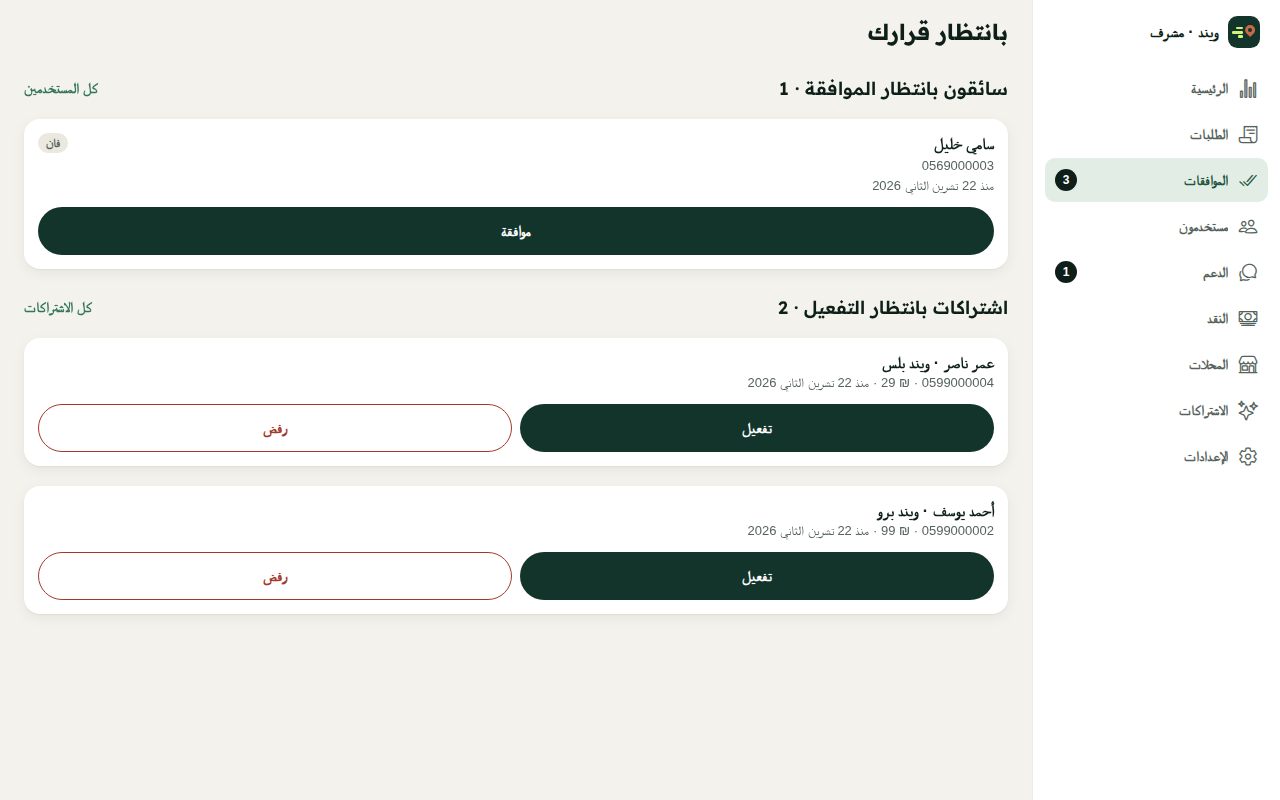
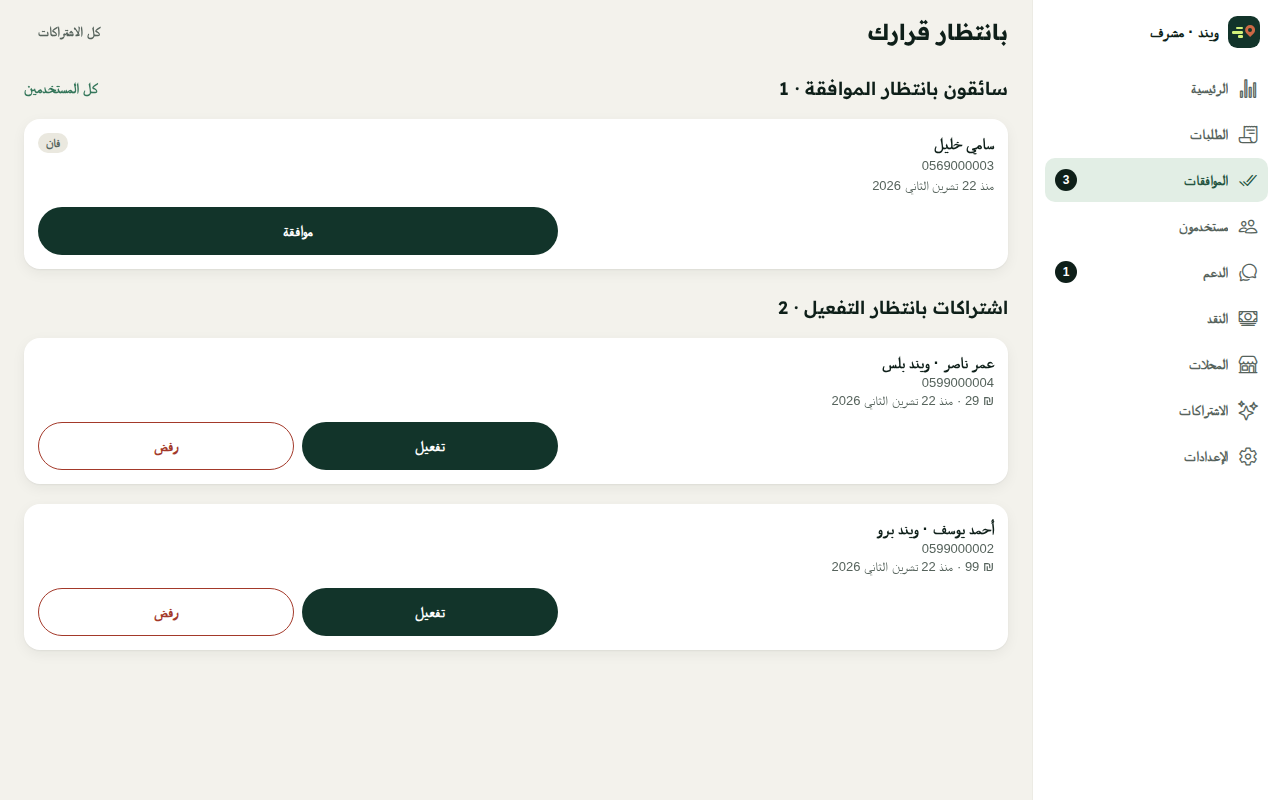
fix(admin): Approvals shows a shop-list failure even when nothing else waits; regenerate its screenshots
Haiku confirmation of PR #108: the shop error moves to the top error line, "Nothing is waiting" waits for the shop
list to answer, and a shop service without its tables (service_unavailable) reads as no applications. Approvals
screenshots regenerated for the header link, plan layout and desktop width.

diff --git a/src/app/admin/approvals.tsx b/src/app/admin/approvals.tsx
@@ -4,7 +4,7 @@
 import { useContext, useRef, useState } from 'react';
 import { router } from 'expo-router';
 import { ScrollView, View } from 'react-native';
-import { api, useApi } from '../../api';
+import { api, ApiError, useApi } from '../../api';
 import { city, isCity, type Merchant, type Subscription, type User } from '../../model';
 import { useFormat } from '../../parts';
 import { useSession } from '../../session';
@@ -31,6 +31,11 @@ export default function Approvals() {
   const waitingPlans = (plans.data ?? []).filter(s => s.status === 'pending').sort((a, b) => a.createdAt - b.createdAt);
   const waitingShops = (shops.data?.merchants ?? []).filter(m => m.status === 'pending');
   const ready = !!drivers.data && !!plans.data;
+  // Shop tables not created yet (service_unavailable) means no shop applications, not an error.
+  const shopMissing = shops.error instanceof ApiError && shops.error.message === 'service_unavailable';
+  const shopError = shop && !shops.data && !shopMissing ? shops.error : undefined;
+  // "Nothing is waiting" only once the shop list has answered too (or failed, which then shows its error).
+  const shopSettled = !shop || !!shops.data || !!shops.error;
   const loadError = drivers.error ?? plans.error;
   // The lists are capped at 200 rows: say so when the count is larger, instead of hiding the rest.
   const moreDrivers = Math.max(0, (stats.data?.pendingDrivers ?? 0) - waitingDrivers.length);
@@ -56,8 +61,8 @@ export default function Approvals() {
   return <Screen onRefresh={reload} scrollRef={list}>
     {/* Plans has no phone tab: its link stays here whatever is pending */}
     <Header title={c.approvalsTitle} right={<Button title={c.approvalsAllPlans} variant="ghost" size="sm" onPress={() => router.navigate('/admin/subscriptions')} />} />
-    <ErrorText>{failure || (loadError ? err(loadError) : '')}</ErrorText>
-    {!ready ? <Loading failed={!!loadError} onRetry={reload} /> : total === 0 ? <Empty icon="checkmark-done-outline" title={c.approvalsNone} /> : <View style={{ gap: 8 }}>
+    <ErrorText>{failure || (loadError ? err(loadError) : shopError ? err(shopError) : '')}</ErrorText>
+    {!ready || (total === 0 && !shopSettled) ? <Loading failed={!!loadError} onRetry={reload} /> : total === 0 && !shopError ? <Empty icon="checkmark-done-outline" title={c.approvalsNone} /> : <View style={{ gap: 8 }}>
       {waitingDrivers.length > 0 && <>
         <Section title={`${c.pendingDrivers} · ${waitingDrivers.length}`} action={c.approvalsAllUsers} onAction={() => router.navigate('/admin/users')} />
         {moreDrivers > 0 && <Txt variant="caption">{fill(c.approvalsMore, { n: moreDrivers })}</Txt>}
@@ -88,7 +93,6 @@ export default function Approvals() {
           </Row>
         </Card>)}
       </>}
-      {shop && shops.error && !shops.data && <ErrorText>{err(shops.error)}</ErrorText>}
       {waitingShops.length > 0 && <>
         <Section title={`${c.approvalsShops} · ${waitingShops.length}`} />
         {waitingShops.map(m => <Card key={`s${m.id}`}>
